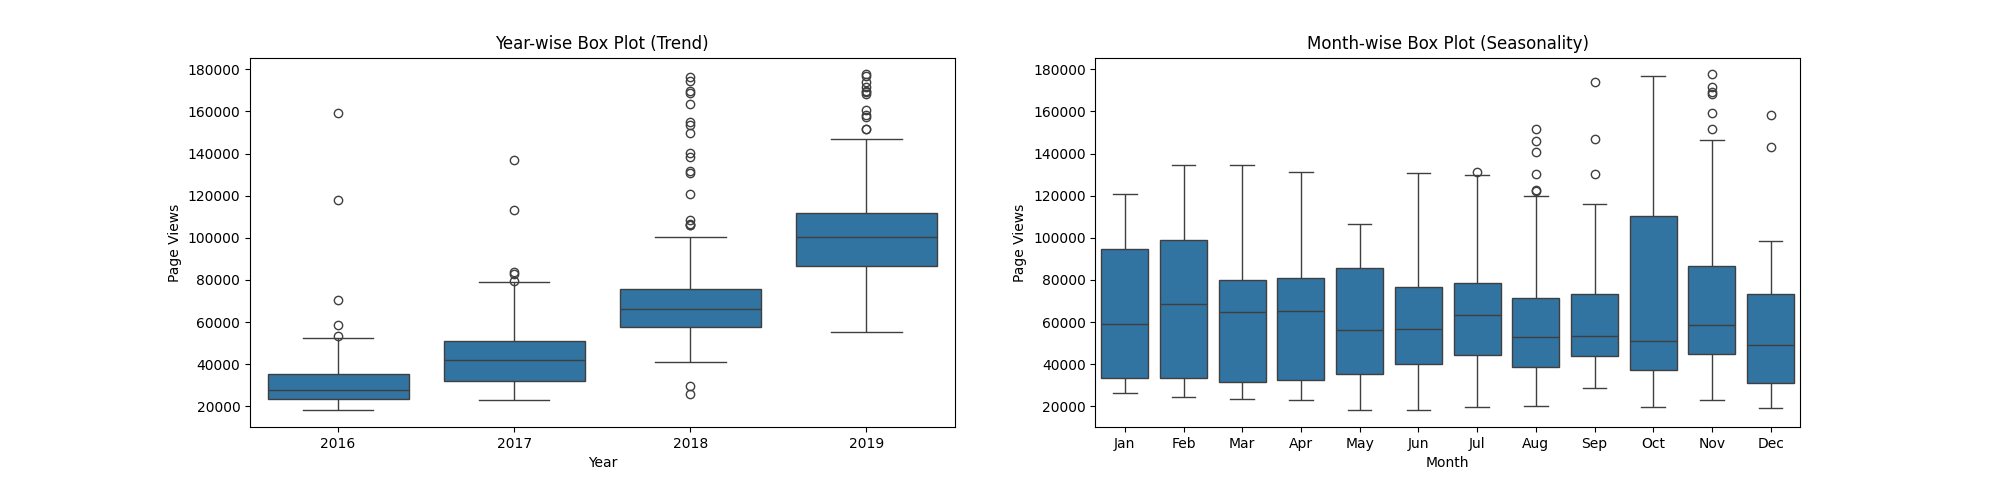
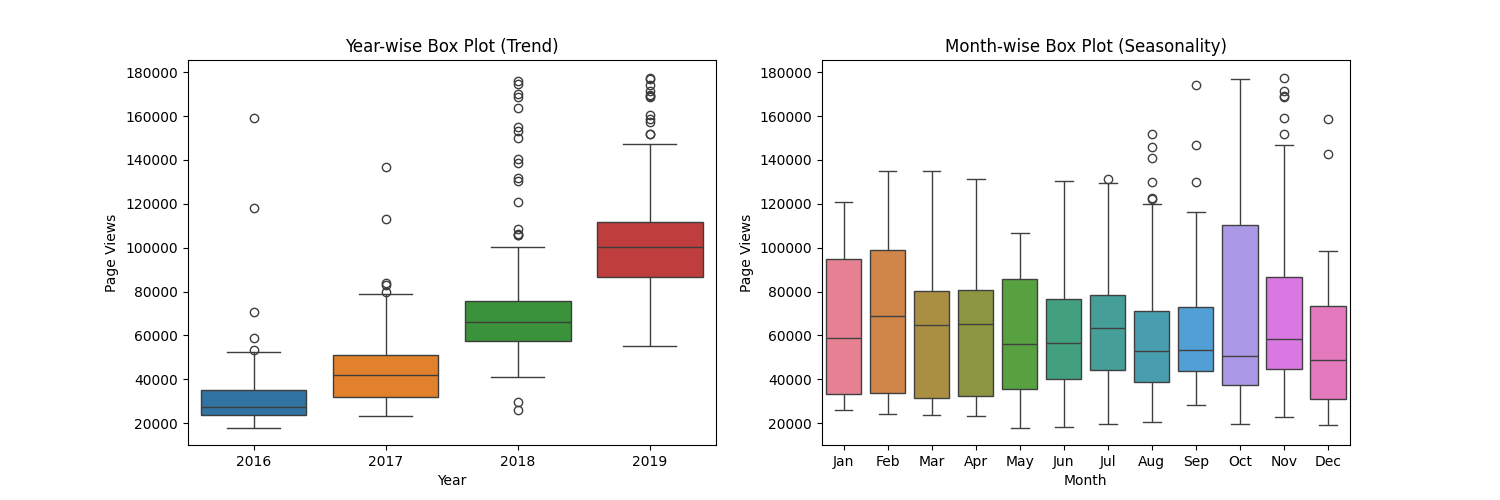
Colors fixed

diff --git a/time_series_visualizer.py b/time_series_visualizer.py
@@ -46,17 +46,18 @@ def draw_box_plot():
     # Prepare data for box plots (this part is done!)
     df_box = df.copy()
     df_box.reset_index(inplace=True)
-    df_box['year'] = [d.year for d in df_box.date]
-    df_box['month'] = [d.strftime('%b') for d in df_box.date]
+    df_box['year'] = df_box['date'].dt.year
+    df_box['month'] = df_box['date'].dt.strftime('%b')
 
     # Draw box plots (using Seaborn)
-    fig, ax = plt.subplots(1, 2)
-    fig.set_figwidth(20)
-    sns.boxplot(x='year', y='value', data=df_box, ax=ax[0])
+    fig, ax = plt.subplots(1, 2, figsize=(15, 5))
+    sns.boxplot(x='year', y='value', data=df_box, ax=ax[0], palette='tab10')
     ax[0].set_title('Year-wise Box Plot (Trend)')
     ax[0].set_xlabel('Year')
     ax[0].set_ylabel('Page Views')
-    sns.boxplot(x='month', y='value', data=df_box, order=['Jan', 'Feb', 'Mar', 'Apr', 'May', 'Jun', 'Jul', 'Aug', 'Sep', 'Oct', 'Nov', 'Dec'], ax=ax[1])
+    sns.boxplot(x='month', y='value', 
+                data=df_box, order=['Jan', 'Feb', 'Mar', 'Apr', 'May', 'Jun', 'Jul', 'Aug', 'Sep', 'Oct', 'Nov', 'Dec'], 
+                ax=ax[1], palette='husl')
     ax[1].set_title('Month-wise Box Plot (Seasonality)')
     ax[1].set_xlabel('Month')
     ax[1].set_ylabel('Page Views')
